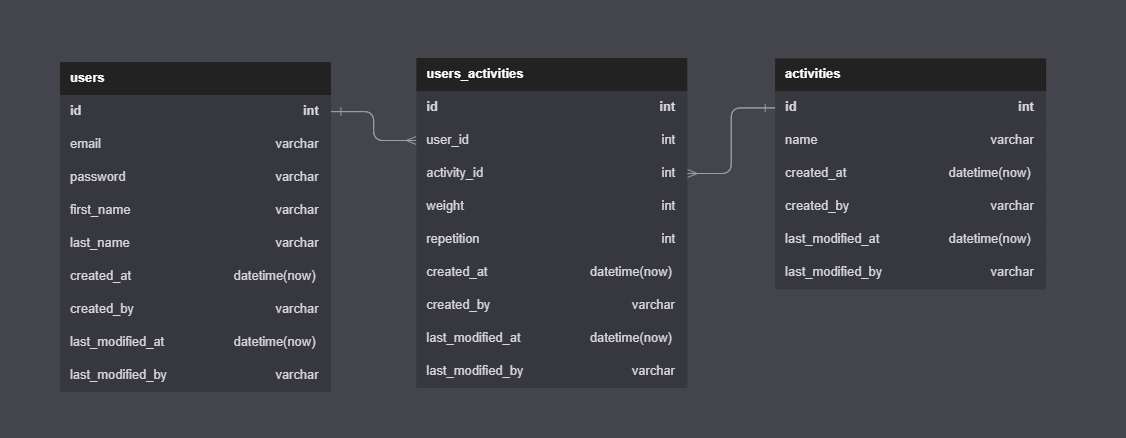
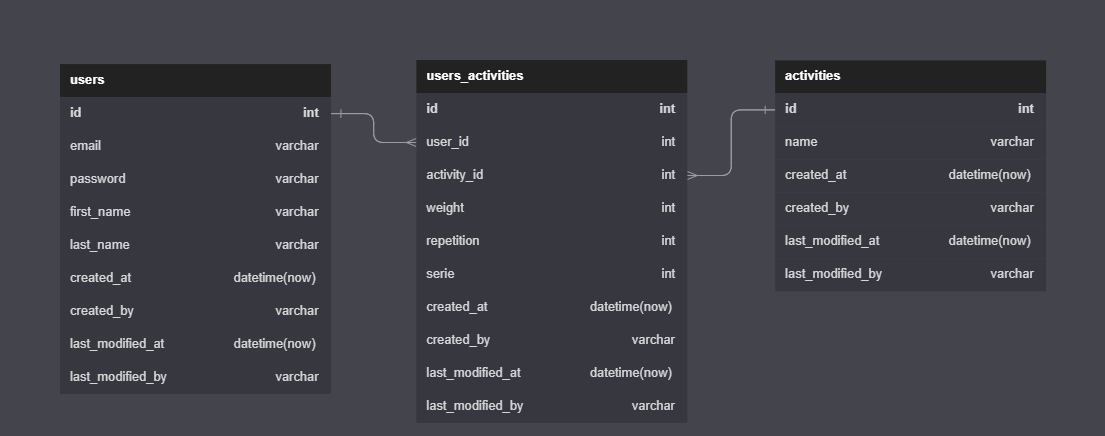
docs: add serie record to readme

diff --git a/README.md b/README.md
@@ -145,7 +145,8 @@ Post /api/user/{userID}/activity/{id}/record
 ```json
 {
   "weight": 20,
-  "repetition": 4
+  "repetition": 4,
+  "serie": 2
 }
 ```
 
@@ -156,7 +157,8 @@ Post /api/user/{userID}/activity/{id}/record
   "userId": "00000000-0000-0000-0000-000000000000",
   "activityId": "00000000-0000-0000-0000-000000000000",
   "weight": 20,
-  "repetition": 4
+  "repetition": 4,
+  "serie": 2
 }
 ```
 
@@ -219,6 +221,7 @@ sem corpo de requisição
       "activityId": "00000000-0000-0000-0000-000000000000",
       "weight": 0,
       "repetition": 30,
+      "serie": 2,
       "id": "00000000-0000-0000-0000-000000000000"
     },
     {
@@ -226,6 +229,7 @@ sem corpo de requisição
       "activityId": "00000000-0000-0000-0000-000000000000",
       "weight": 0,
       "repetition": 100,
+      "serie": 5,
       "id": "00000000-0000-0000-0000-000000000000"
     }
   ],
